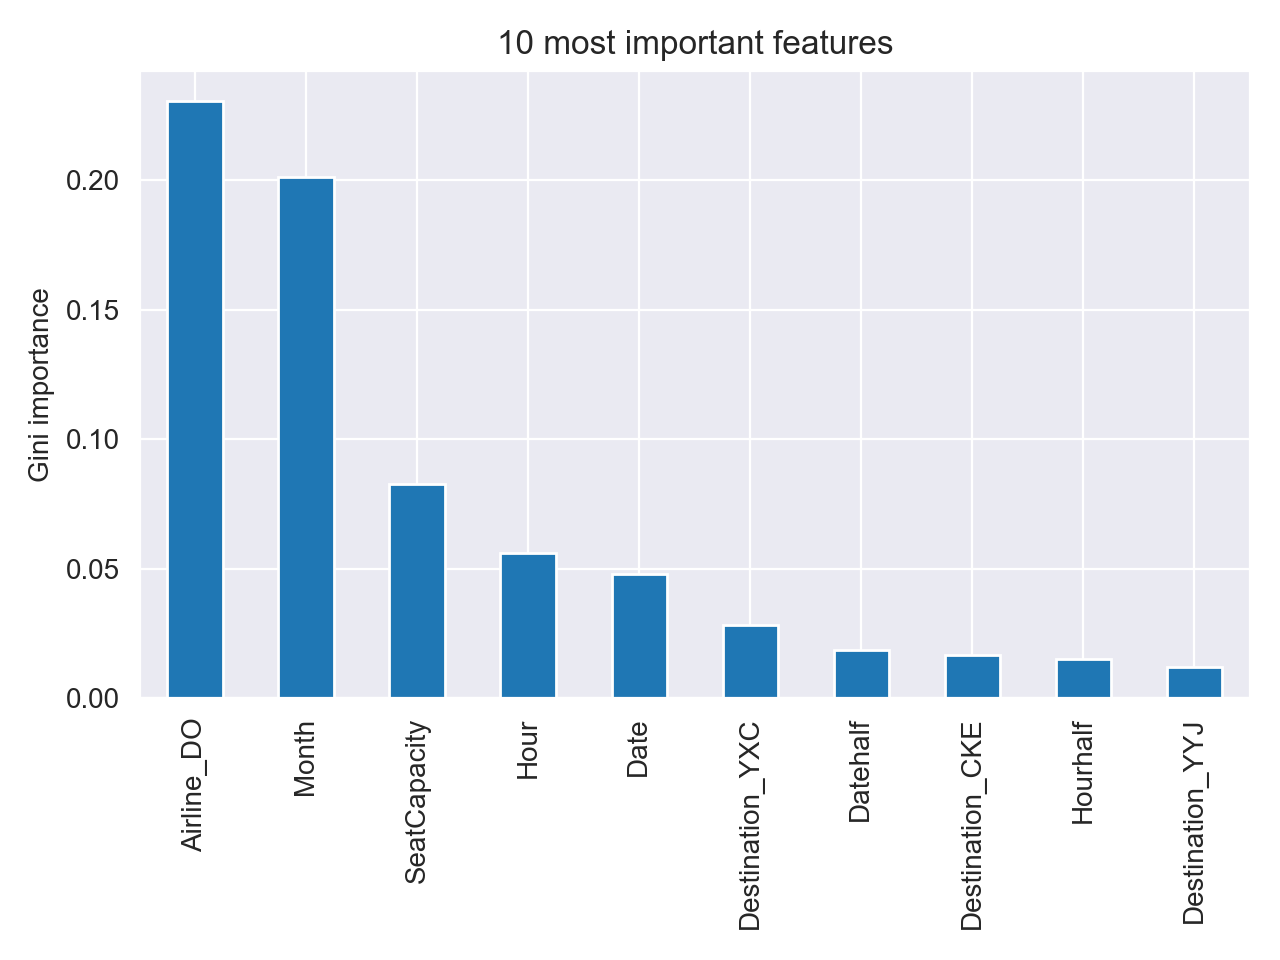
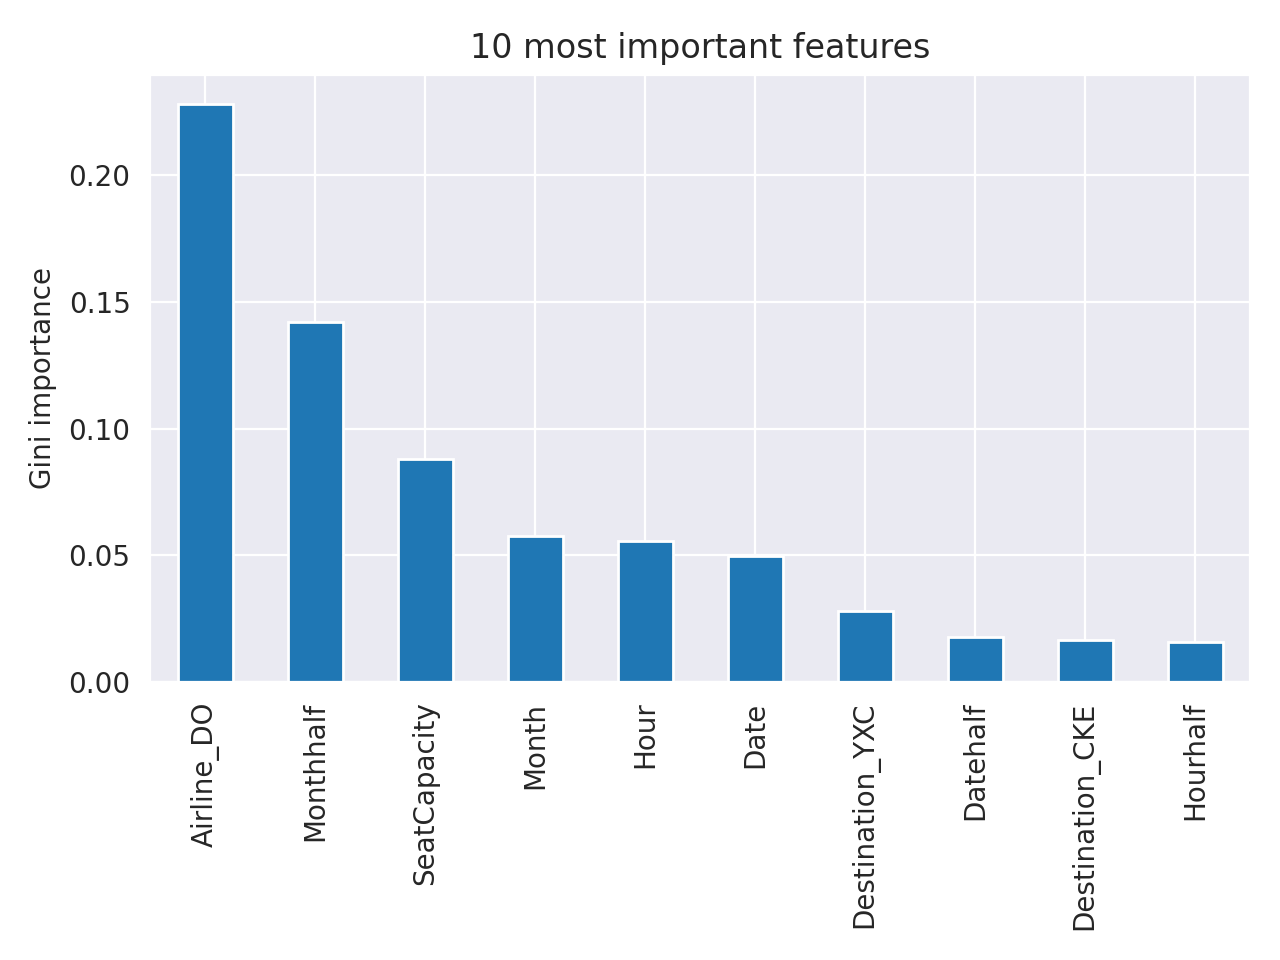
ting

diff --git a/run.py b/run.py
@@ -37,12 +37,11 @@ if __name__ == "__main__":
                 RandomForestRegressor(n_estimators=100, n_jobs=-1),
                 RandomForestRegressor(n_estimators=30, n_jobs=-1, min_samples_leaf=3),
                 RandomForestRegressor(n_estimators=100, n_jobs=-1, min_samples_leaf=3),
-                BaggingRegressor(LinearRegression(), n_estimators=30, max_features=50, n_jobs=-1),
-                BaggingRegressor(LinearRegression(), n_estimators=30, max_features=50, n_jobs=-1),
+                BaggingRegressor(LinearRegression(), n_estimators=50, max_features=20, n_jobs=-1),
+                BaggingRegressor(LinearRegression(), n_estimators=50, max_features=20, n_jobs=-1),
                 Lasso(alpha=0.0001),
                 Lasso(alpha=0.001),
                 LinearRegression(),
-                MLPRegressor((20, 10)),
                 MLPRegressor((50, 20)),
                 MLPRegressor((100, 50, 20)),
                 ElasticNet(),

diff --git a/data.py b/data.py
@@ -68,7 +68,7 @@ def _process(df: pd.DataFrame, keep: dict[str, pd.Series], all_cats):
             df[tc+"half"] = df[tc] % periods[tc] > periods[tc] / 2
             df[tc] = np.sin(2*np.pi/periods[tc]*(df[tc]-periods[tc]/4)) / 2 + 1 / 2
 
-    #df, keep = _group_categoricals(df, keep)
+    df, keep = _group_categoricals(df, keep)
 
     df = pd.get_dummies(df, columns=oh_cols)
     df = df.drop('ScheduleTime', axis=1).copy()

diff --git a/fit.py b/fit.py
@@ -114,5 +114,5 @@ def feature_importance(X,y):
     plt.savefig('Feature_importance.png', dpi = 200)
     plt.close()
     log("Number of features to obtain a gini importance of 0.5:", num_features)
-    log("Ten most important features", topten) 
-    log("Ten least important features", lowten) )]
+    log("Ten most important features", topten)
+    log("Ten least important features", lowten)
